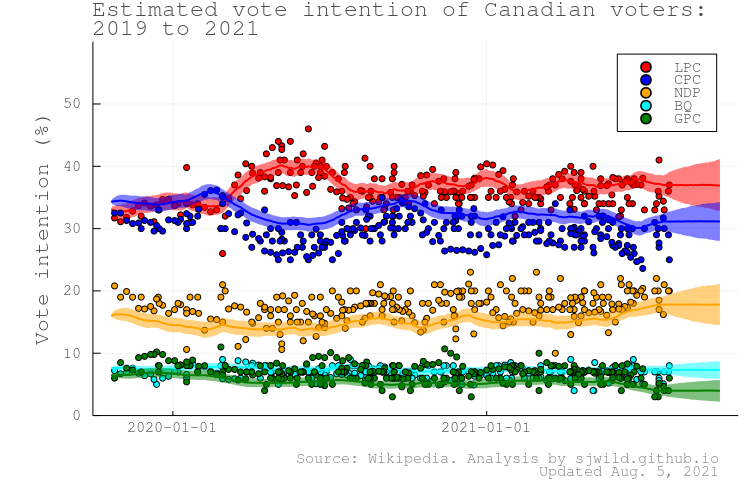
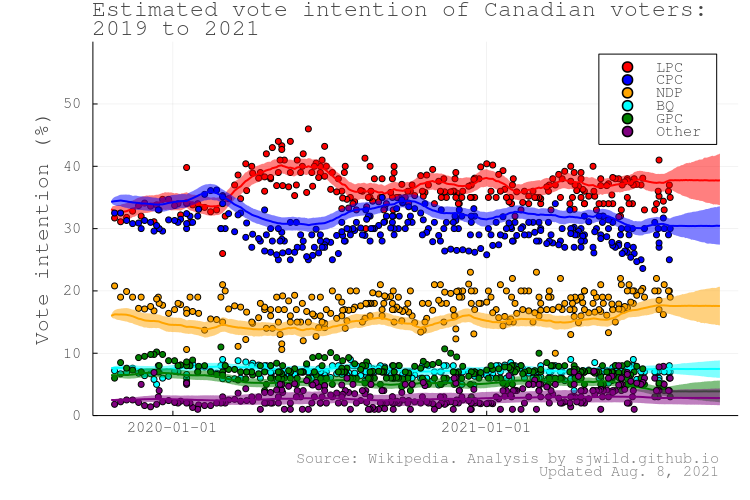
August 8 update

diff --git a/README.md b/README.md
@@ -19,15 +19,16 @@ The Julia model is run using Turing.jl. The Turing model is coded using a differ
 The predictions for voting intention (that is, for the period after 2019-10-21, the date of 2019 Canadian election) assume that the polling errors are the same after the election as before it. That may or may not be true. I suspect that polling errors are correlated between periods.
 
 ## Vote intention
-As of August 5, 2021, these are the estimated vote shares based on Canadian polls:
+As of August 8, 2021, these are the estimated vote shares based on Canadian polls up to August 3, 2021:
 
 |**Party**    | **Vote share**  | **95% bounds**     |
 |-------------|:---------------:|:------------------:|
-|**LPC**      | 36.9%           | (34.8%, 39.2%)     |
-|**CPC**      | 31.1%           | (29.4%, 32.8%)     |
-|**NDP**      | 17.8%           | (16.0%, 19.6%)     |
-|**BQ**       | 7.3%            | (6.5%, 8.2%)       |
-|**GPC**      | 4.0%            | (2.9%, 5.1%)       |
+|**LPC**      | 37.8%           | (35.9%, 39.7%)     |
+|**CPC**      | 30.4%           | (28.9%, 31.9%)     |
+|**NDP**      | 17.6%           | (16.1%, 19.1%)     |
+|**BQ**       | 7.5%            | (6.7%, 8.2%)       |
+|**GPC**      | 3.9%            | (3.0%, 4.8%)       |
+|**Other**    | 2.8%            | (1.8%, 4.1%)       |
 
 
 
